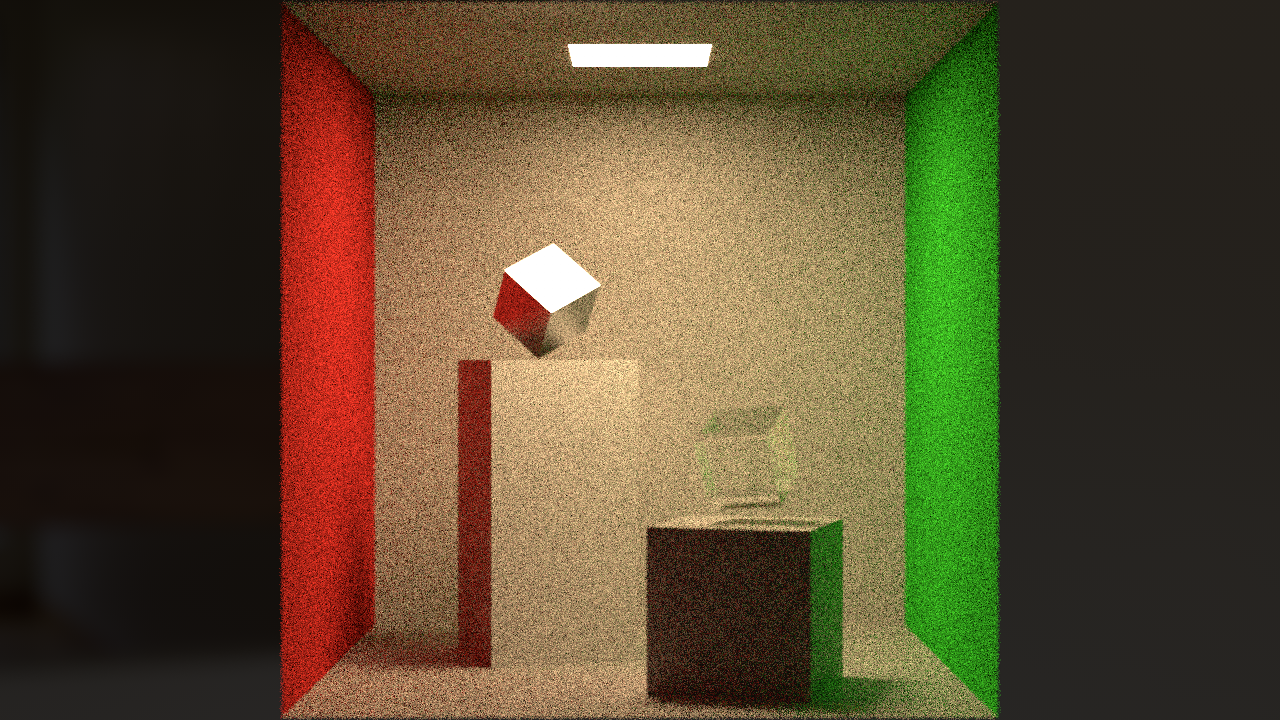
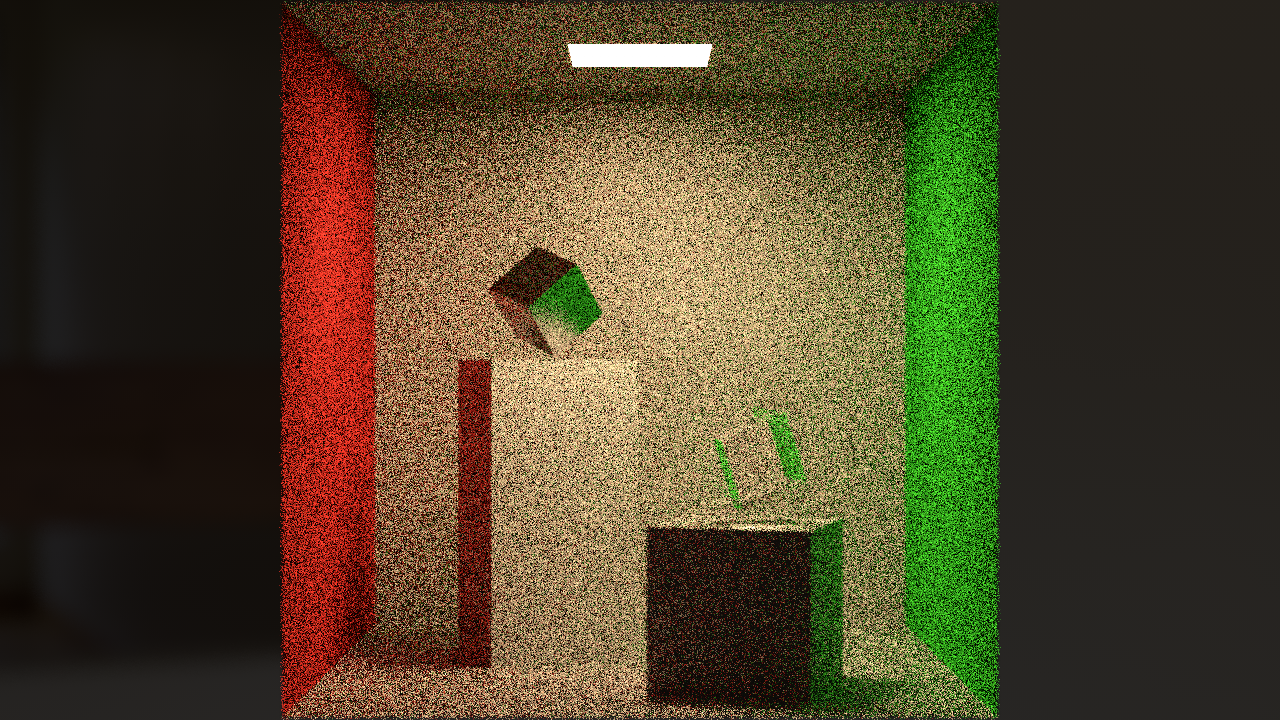
Use quaternions for rotation
- Test render not done because it's 2 AM

diff --git a/RotatedObj.cpp b/RotatedObj.cpp
@@ -2,7 +2,7 @@
 
 RotatedObj::RotatedObj(const Vector3D degrees, Object* object) {
 	m_radians = degrees * Vector3D(3.14159265f / 180.f);
-	m_radians *= Vector3D(1.f, 1.f, 1.f);
+	//m_radians *= Vector3D(1.f, 1.f, 1.f);
 	m_object = object;
 }
 
@@ -12,31 +12,47 @@ RotatedObj::~RotatedObj() {
 
 bool RotatedObj::Hit(Ray& ray, const float t_min, const float t_max, HitRec& rec) {
 	if (m_object == nullptr) return false;
-	Vector3D negativeRadians = -m_radians;
 
-	Vector3D rayOrig = Vector3D::Rotate(ray.GetOrig(), negativeRadians);
-	Vector3D rayDir = Vector3D::Rotate(ray.GetDir(), negativeRadians);
+	Vector3D xUp = Vector3D(1.f, 0.f, 0.f);
+	Vector3D yUp = Vector3D(0.f, 1.f, 0.f);
+	Vector3D zUp = Vector3D(0.f, 0.f, 1.f);
 
-	Ray localRay(rayOrig, rayDir);
+	// X axis rotation
+	Vector3D xRayOrig = Vector3D::RotateAxis(ray.GetOrig(), xUp, -m_radians.GetX());
+	Vector3D xRayDir = Vector3D::RotateAxis(ray.GetDir(), xUp, -m_radians.GetX());
+	//Ray xRay(xRayOrig, xRayDir);
 
-	if (!m_object->Hit(localRay, t_min, t_max, rec)) return false;
+	// Y axis rotation
+	Vector3D yRayOrig = Vector3D::RotateAxis(xRayOrig, yUp, -m_radians.GetY());
+	Vector3D yRayDir = Vector3D::RotateAxis(xRayDir, yUp, -m_radians.GetY());
+	//Ray yRay(yRayOrig, yRayDir);
 
-	Vector3D localPoint = Vector3D::Rotate(rec.GetPoint(), m_radians);
-	Vector3D localNormal = rec.GetNormal();
-	localNormal = Vector3D::Rotate(localNormal, m_radians);
+	// Z axis rotation
+	Vector3D zRayOrig = Vector3D::RotateAxis(yRayOrig, zUp, -m_radians.GetZ());
+	Vector3D zRayDir = Vector3D::RotateAxis(yRayDir, zUp, -m_radians.GetZ());
+	Ray zRay(zRayOrig, zRayDir);
 
-	rec.SetPoint(localPoint);
-	rec.SetNormal(localNormal);
+	if (!m_object->Hit(zRay, t_min, t_max, rec)) return false;
+
+	Vector3D zPoint = Vector3D::RotateAxis(rec.GetPoint(), zUp, m_radians.GetZ());
+	Vector3D zNormal = Vector3D::RotateAxis(rec.GetNormal(), zUp, m_radians.GetZ());
+
+	Vector3D yPoint = Vector3D::RotateAxis(zPoint, yUp, m_radians.GetY());
+	Vector3D yNormal = Vector3D::RotateAxis(zNormal, yUp, m_radians.GetY());
+
+	Vector3D xPoint = Vector3D::RotateAxis(yPoint, xUp, m_radians.GetX());
+	Vector3D xNormal = Vector3D::RotateAxis(yNormal, xUp, m_radians.GetX());
+
+	rec.SetPoint(xPoint);
+	rec.SetNormal(xNormal);
 
 	return true;
 }
 
 bool RotatedObj::SphereIntersectGround(const Vector3D pos, const float radius) {
-	Vector3D l_pos = Vector3D::Rotate(pos, m_radians);
-	return m_object->SphereIntersectGround(l_pos, radius);
+	return m_object->SphereIntersectGround(pos, radius);
 }
 
 bool RotatedObj::SphereIntersectSphere(const Vector3D pos, const float radius) {
-	Vector3D l_pos = Vector3D::Rotate(pos, m_radians);
-	return m_object->SphereIntersectSphere(l_pos, radius);
+	return m_object->SphereIntersectSphere(pos, radius);
 }

diff --git a/Vector3D.cpp b/Vector3D.cpp
@@ -3,6 +3,7 @@
 
 #include "Random.h"
 #include "Matrix3x3.h"
+#include "Quaternion.h"
 
 #include "Vector3D.h"
 
@@ -62,14 +63,21 @@ Vector3D Vector3D::CrossProduct(const Vector3D& v1, const Vector3D& v2) {
 		v1.m_x * v2.m_y - v1.m_y * v2.m_x);
 }
 
-Vector3D Vector3D::Rotate(const Vector3D& v, const Vector3D& radians) {
-	Vector3D out = v;
+Vector3D Vector3D::RotateAxis(const Vector3D& v, const Vector3D& axis, const float radians) {
+	Quaternion p(0.f, v.m_x, v.m_y, v.m_z);
 
-	out = Matrix3x3::RotateX(out, radians.m_x);
-	out = Matrix3x3::RotateY(out, radians.m_y);
-	out = Matrix3x3::RotateZ(out, radians.m_z);
+	float sinTheta = sin(radians / 2.f);
+	float cosTheta = cos(radians / 2.f);
 
-	return out;
+	Vector3D ijk = axis * sinTheta;
+	//Vector3D ijk_negative = -ijk;
+
+	Quaternion r(cosTheta, ijk.GetX(), ijk.GetY(), ijk.GetZ());
+	Quaternion rInverse(cosTheta, -ijk.GetX(), -ijk.GetY(), -ijk.GetZ());
+
+	Quaternion result = Quaternion::HamProduct(Quaternion::HamProduct(r, p), rInverse);
+
+	return result.GetIJK();
 }
 
 bool Vector3D::NearZero() {
@@ -276,7 +284,7 @@ Vector3D& Vector3D::operator=(const Vector3D& copyVector) {
 
 Vector3D Vector3D::operator/(const float scalar) const {
 	if (scalar == 0.f) return Vector3D(NAN);
-		
+
 	return Vector3D(m_x / scalar, m_y / scalar, m_z / scalar);
 }
 
@@ -295,7 +303,7 @@ Vector3D& Vector3D::operator/=(const float scalar) {
 
 		return *this;
 	}
-	
+
 	m_x /= scalar;
 	m_y /= scalar;
 	m_z /= scalar;

diff --git a/TransformedObject.cpp b/TransformedObject.cpp
@@ -13,25 +13,17 @@ TransformedObject::TransformedObject(const Vector3D rotation, const Vector3D tra
 	//m_scaledObject = new ScaledObject(scale, nullptr);
 	//m_rotatedObject = new RotatedObj(rotation, m_object);
 	//m_translatedObject = new TranslatedObj(translation, m_rotatedObject);
-	m_xRotatedObject = new RotatedObj(rotation * Vector3D(1.f, 0.f, 0.f), m_object);
-	m_yRotatedObject = new RotatedObj(rotation * Vector3D(0.f, 1.f, 0.f), m_xRotatedObject);
-	m_zRotatedObject = new RotatedObj(rotation * Vector3D(0.f, 0.f, 1.f), m_yRotatedObject);
+	m_rotatedObject = new RotatedObj(rotation, m_object);
 	
-	m_translatedObject = new TranslatedObj(translation, m_zRotatedObject);
+	m_translatedObject = new TranslatedObj(translation, m_rotatedObject);
 }
 
 TransformedObject::~TransformedObject() {
 	delete m_translatedObject;
 	m_translatedObject = nullptr;
 
-	delete m_zRotatedObject;
-	m_zRotatedObject = nullptr;
-
-	delete m_yRotatedObject;
-	m_yRotatedObject = nullptr;
-
-	delete m_xRotatedObject;
-	m_xRotatedObject = nullptr;
+	delete m_rotatedObject;
+	m_rotatedObject = nullptr;
 	
 	//delete m_scaledObject;
 	//m_scaledObject = nullptr;

diff --git a/Quaternion.cpp b/Quaternion.cpp
@@ -1,0 +1,36 @@
+#include <cmath>
+
+#include "Quaternion.h"
+
+Quaternion::Quaternion(const float r, const float i, const float j, const float k) {
+	m_w = r;
+	m_i = i;
+	m_j = j;
+	m_k = k;
+}
+
+Quaternion::~Quaternion() {
+}
+
+Quaternion& Quaternion::operator=(const Quaternion& copyQuaternion) {
+	if (this == &copyQuaternion) return *this;
+
+	m_w = copyQuaternion.m_w;
+	m_i = copyQuaternion.m_i;
+	m_j = copyQuaternion.m_j;
+	m_k = copyQuaternion.m_k;
+
+	return *this;
+}
+Quaternion Quaternion::HamProduct(const Quaternion& q1, const Quaternion& q2) {
+	float w = (q1.m_w * q2.m_w) - (q1.m_i * q2.m_i) - (q1.m_j * q2.m_j) - (q1.m_k * q2.m_k);
+	float i = (q1.m_w * q2.m_i) + (q1.m_i * q2.m_w) + (q1.m_j * q2.m_k) - (q1.m_k * q2.m_j);
+	float j = (q1.m_w * q2.m_j) - (q1.m_i * q2.m_k) + (q1.m_j * q2.m_w) + (q1.m_k * q2.m_i);
+	float k = (q1.m_w * q2.m_k) + (q1.m_i * q2.m_j) - (q1.m_j * q2.m_i) + (q1.m_k * q2.m_w);
+
+	return Quaternion(w, i, j, k);
+}
+
+Vector3D Quaternion::GetIJK() {
+	return Vector3D(m_i, m_j, m_k);
+}

diff --git a/Raytracing.cpp b/Raytracing.cpp
@@ -544,10 +544,10 @@ void Raytracing::CornellBox() {
 
 	m_unrenderedObjects["shortBlock"] = new Box(Vector3D(0.5f), m_matMap["white"]);
 	m_unrenderedObjects["tallBlock"] = new Box(Vector3D(0.5f, 1.f, 0.5f), m_matMap["white"]);
-	m_unrenderedObjects["glassBlock"] = new Box(Vector3D(0.2309f), m_matMap["glass"]);
 	m_unrenderedObjects["metalBlock"] = new Box(Vector3D(0.2309f), m_matMap["metal"]);
 
-	//m_unrenderedObjects["glassBlock"] = new Sphere(Vector3D(0.f, 0.f, 0.f), 0.2f, m_matMap["glass"]);
+	m_unrenderedObjects["glassBlock"] = new Box(Vector3D(0.2309f), m_matMap["glass"]);
+	//m_unrenderedObjects["glassBlock"] = new Sphere(Vector3D(0.f), 0.2f, m_matMap["glass"]);
 
 	m_renderedObjects.push_back(new Plane(Plane::Type::YMinus, Vector3D(0.f, closeToOne, 0.f), 0.45f, 0.45f, m_matMap["light"]));
 

diff --git a/Quaternion.h b/Quaternion.h
@@ -1,0 +1,32 @@
+#pragma once
+#include "Vector3D.h"
+
+class Quaternion {
+public:
+	Quaternion() : Quaternion(0.f, 1.f, 0.f, 0.f) {};
+	Quaternion(const float w, const float i, const float j, const float k);
+	~Quaternion();
+
+	// ----- OPERATOR OVERLOADS -----
+
+	/// <summary>
+	/// Simple Assignment
+	/// </summary>
+	/// <param name="copyQuaternion"></param>
+	/// <returns></returns>
+	Quaternion& operator=(const Quaternion& copyQuaternion);
+
+	// Hamilton product
+	static Quaternion HamProduct(const Quaternion& q1, const Quaternion& q2);
+
+	// ----- GETTERS & SETTERS -----
+
+	Vector3D GetIJK();
+
+private:
+	float m_w;
+	float m_i;
+	float m_j;
+	float m_k;
+};
+

diff --git a/Vector3D.h b/Vector3D.h
@@ -27,7 +27,9 @@ public:
 
 	static float DotProduct(const Vector3D& v1, const Vector3D& v2);
 	static Vector3D CrossProduct(const Vector3D& v1, const Vector3D& v2);
-	static Vector3D Rotate(const Vector3D& v, const Vector3D& radians);
+
+	//static Vector3D Rotate(const Vector3D& v, const Vector3D& radians);
+	static Vector3D RotateAxis(const Vector3D& v, const Vector3D& axis, const float radians);
 
 	// ----- OTHER -----
 

diff --git a/TransformedObject.h b/TransformedObject.h
@@ -27,9 +27,7 @@ private:
 
     //Object* m_scaledObject;
     //Object* m_rotatedObject;
-    Object* m_xRotatedObject;
-    Object* m_yRotatedObject;
-    Object* m_zRotatedObject;
+    Object* m_rotatedObject;
     Object* m_translatedObject;
 };
 
